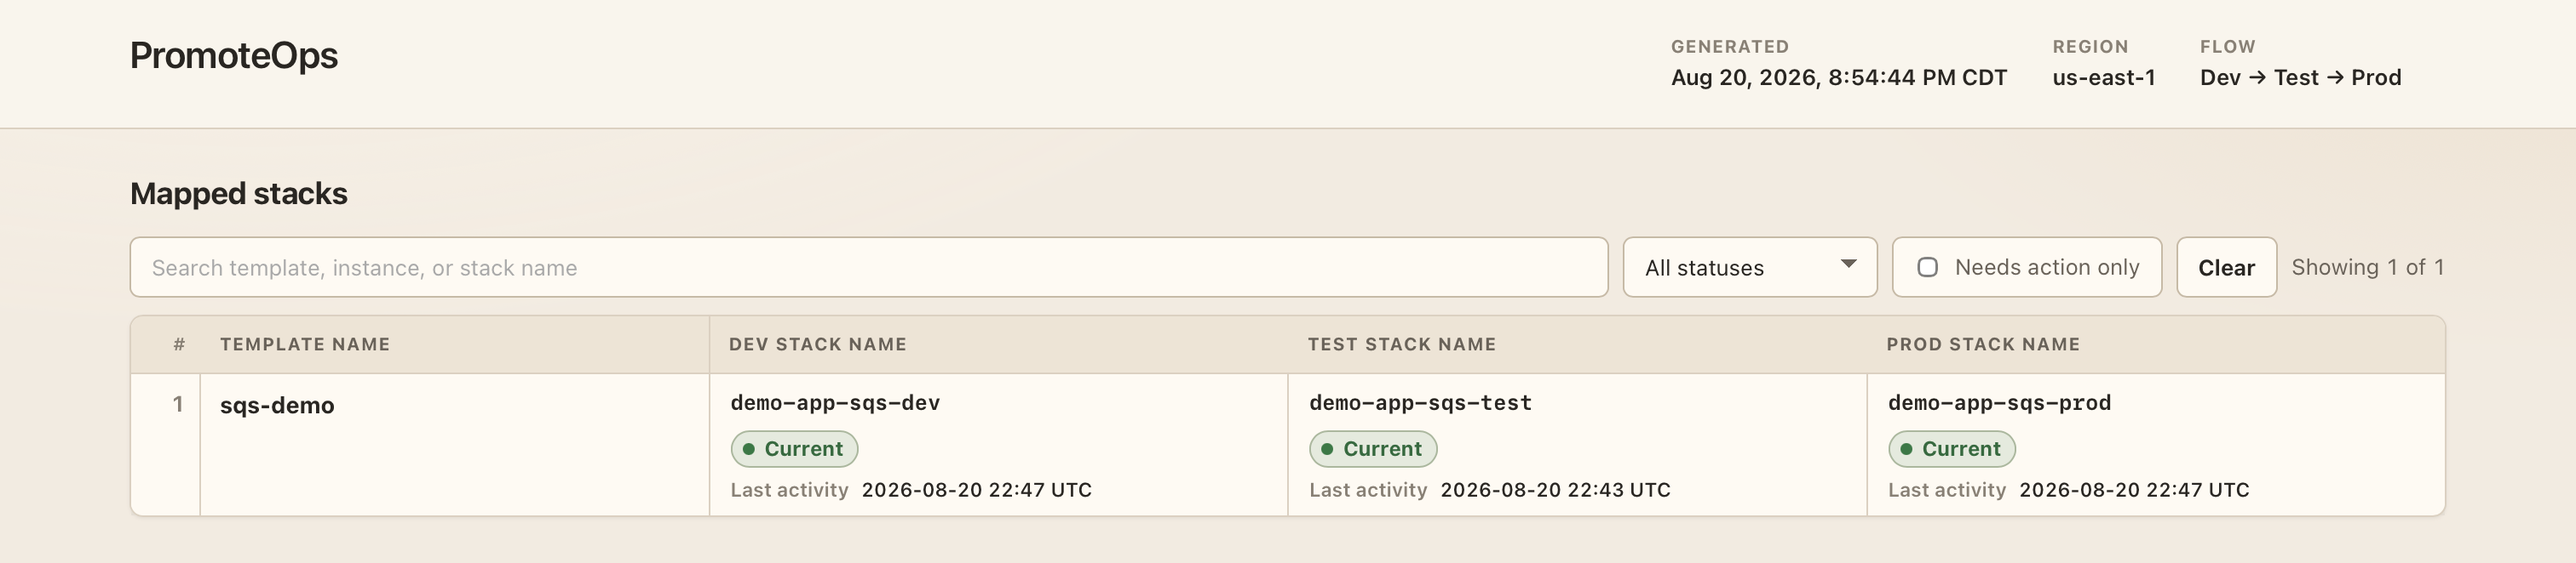
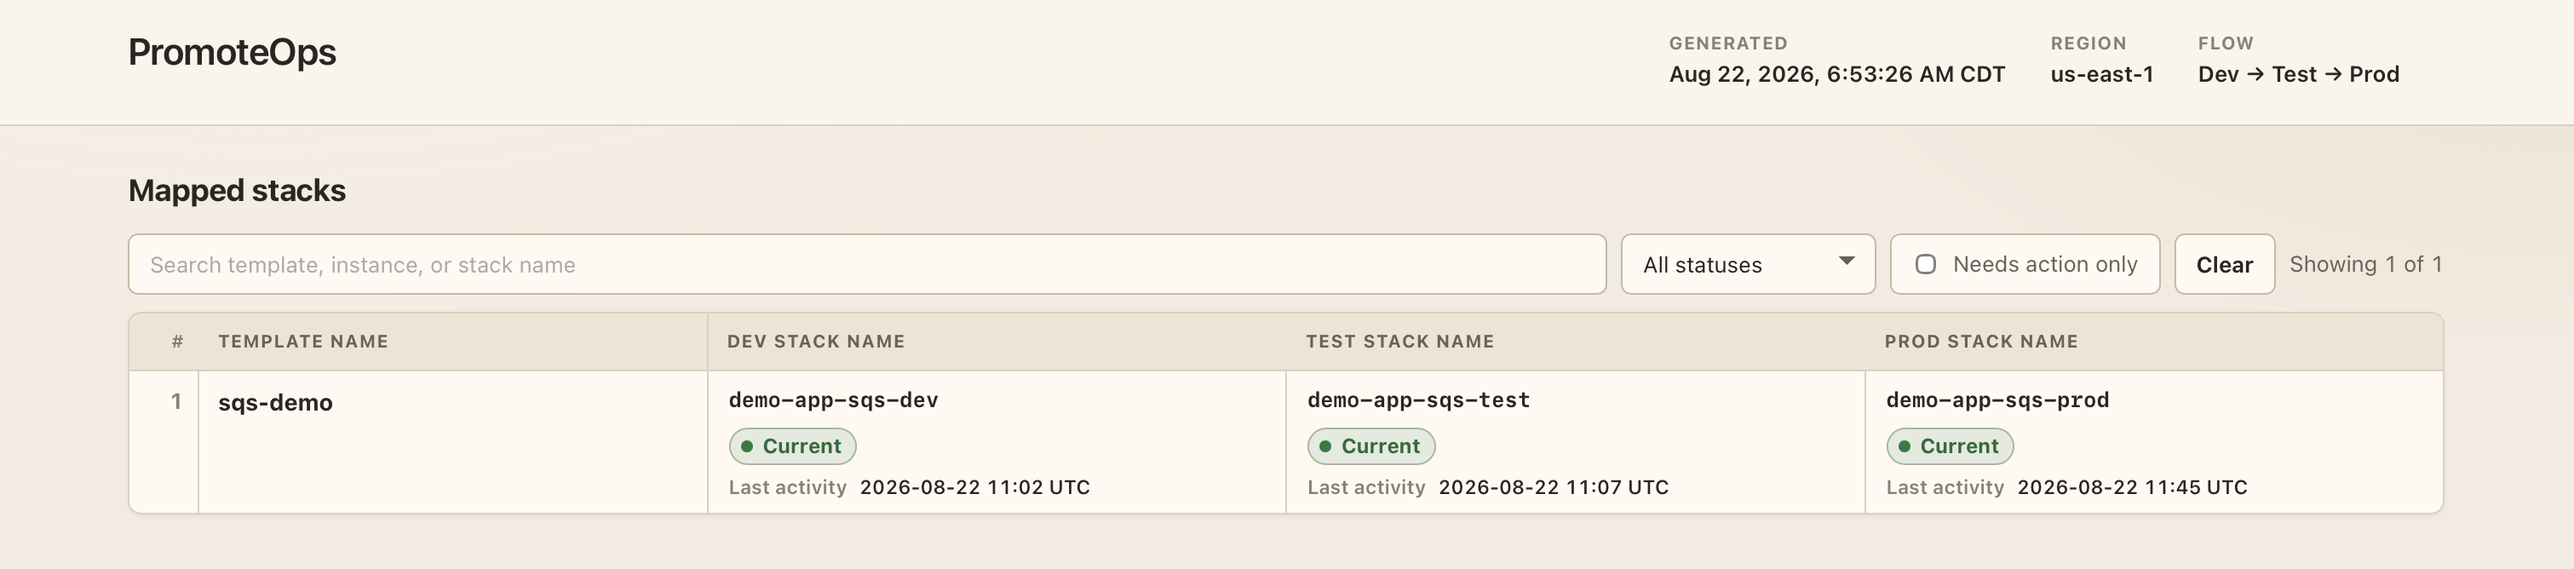
Update assets and readme

diff --git a/README.md b/README.md
@@ -60,7 +60,7 @@ PromoteOps separates reading from writing. Generating a report or a diff never c
 
 ### Promoting a stack: `plan_stack_promotion` then `execute_stack_promotion`
 
-![Promoting a stack flow: plan_stack_promotion resolves the stack, reads the local template, records the target hash, and returns a plan ID; after review, execute_stack_promotion checks whether the plan was already executed, requests confirmation, checks whether the target stack changed, then either rejects the plan or applies the change set and records the result in the audit log](https://raw.githubusercontent.com/Hitesh1326/promoteops/main/assets/promoting-stack-flow.png)
+<img src="https://raw.githubusercontent.com/Hitesh1326/promoteops/main/assets/promoting-stack-flow.png" alt="Promoting a stack flow: plan_stack_promotion resolves the stack, reads the local template, records the target hash, and returns a plan ID; after review, execute_stack_promotion checks whether the plan was already executed, requests confirmation, checks whether the target stack changed, then either rejects the plan or applies the change set and records the result in the audit log" width="480" />
 
 The check against the target stack's hash, right before applying anything, is what makes the plan trustworthy. If another deployment changed the target stack after the plan was created, the plan is discarded instead of being applied against infrastructure that no longer matches what was reviewed.
 
